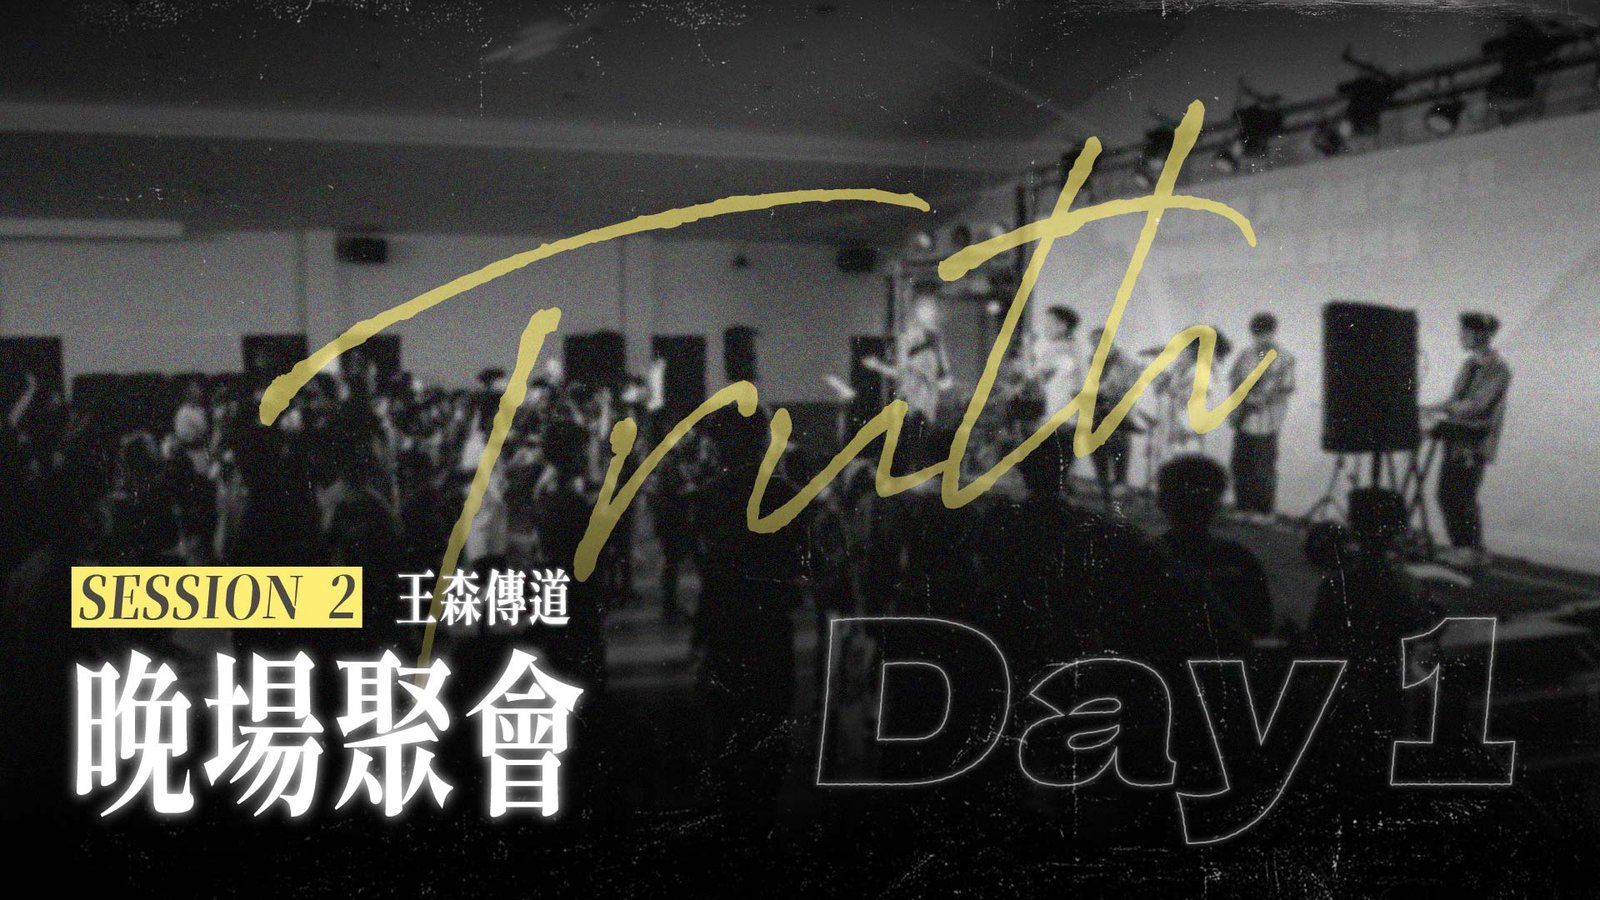
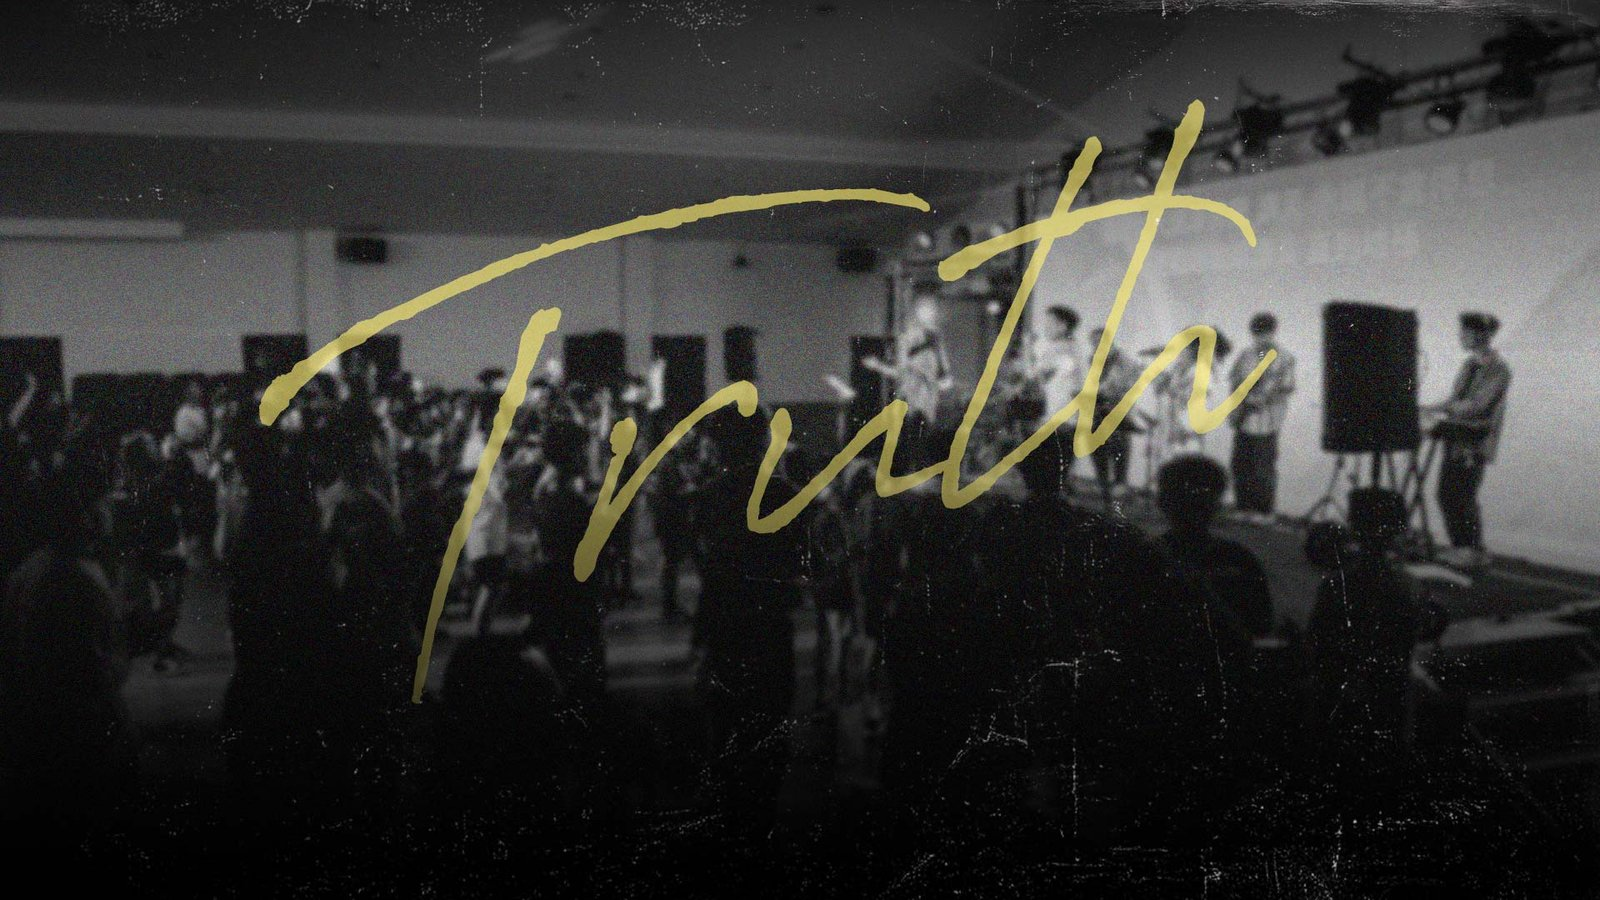
feat(camp): 七場聚會圖片拆成無字／有字兩版
campSessions 拆出 infoImage 欄位：卡片、倒數計時縮圖改用無字版（image），
只有倒數卡片點下去的「營會資訊」彈窗頭圖維持用有字版（infoImage），
跟 CONF 工作坊 image／infoImage 分工同一個做法。

diff --git a/lib/opening-camp-content.ts b/lib/opening-camp-content.ts
@@ -153,9 +153,12 @@ export type CampSession = {
   id: string
   label: string
   startISO: string
-  // 16:9 視覺圖（聚會卡片、倒數計時縮圖、大圖預覽共用），跟 ConferenceSession.image
+  // 16:9 無字視覺圖：首頁聚會內容卡片、倒數計時縮圖共用，跟 ConferenceSession.image
   // 同一個用法。
   image: string
+  // 16:9 有字（場次名稱）視覺圖，只用在倒數卡片點下去的「營會資訊」彈窗頭圖，
+  // 跟 conference-mission-home.tsx 工作坊的 image／infoImage 分工同一個做法。
+  infoImage: string
 }
 
 export const campSessions: CampSession[] = [
@@ -164,42 +167,49 @@ export const campSessions: CampSession[] = [
     label: "開場聚會",
     startISO: "2026-08-25T14:00:00+08:00",
     image: "/images/camp-session-day1-opening.jpg",
+    infoImage: "/images/camp-session-day1-opening-info.jpg",
   },
   {
     id: "day1-evening",
     label: "晚場聚會",
     startISO: "2026-08-25T19:00:00+08:00",
     image: "/images/camp-session-day1-evening.jpg",
+    infoImage: "/images/camp-session-day1-evening-info.jpg",
   },
   {
     id: "day2-game",
     label: "大地競賽",
     startISO: "2026-08-26T09:20:00+08:00",
     image: "/images/camp-session-day2-game.jpg",
+    infoImage: "/images/camp-session-day2-game-info.jpg",
   },
   {
     id: "day2-debate",
     label: "勇者辯論場",
     startISO: "2026-08-26T14:00:00+08:00",
     image: "/images/camp-session-day2-debate.jpg",
+    infoImage: "/images/camp-session-day2-debate-info.jpg",
   },
   {
     id: "day2-evening",
     label: "晚場聚會",
     startISO: "2026-08-26T19:00:00+08:00",
     image: "/images/camp-session-day2-evening.jpg",
+    infoImage: "/images/camp-session-day2-evening-info.jpg",
   },
   {
     id: "day3-podcast",
     label: "Live Podcast",
     startISO: "2026-08-27T09:20:00+08:00",
     image: "/images/camp-session-day3-podcast.jpg",
+    infoImage: "/images/camp-session-day3-podcast-info.jpg",
   },
   {
     id: "day3-closing",
     label: "閉幕聚會",
     startISO: "2026-08-27T13:30:00+08:00",
     image: "/images/camp-session-day3-closing.jpg",
+    infoImage: "/images/camp-session-day3-closing-info.jpg",
   },
 ]
 

diff --git a/components/camp-countdown-card.tsx b/components/camp-countdown-card.tsx
@@ -57,13 +57,14 @@ export function CampCountdownCard() {
             <span className="sr-only">關閉</span>
           </DialogClose>
 
-          {/* 視覺依場次換成 nextSession.image。overflow-hidden 放在這裡（不是
-              外層 DialogContent）只裁圖片本身的圓角，外層才能保留 overflow-y-auto
+          {/* 彈窗頭圖用有字版 nextSession.infoImage（跟卡片／倒數計時縮圖用的
+              無字版 image 是不同兩張圖）。overflow-hidden 放在這裡（不是外層
+              DialogContent）只裁圖片本身的圓角，外層才能保留 overflow-y-auto
               讓內容過長時可以捲動，不會在小螢幕手機上被切掉或壓扁變形
               （跟 conference-mission-home.tsx 同一個修法）。 */}
           <div className="relative aspect-video w-full shrink-0 overflow-hidden rounded-t-3xl">
             <Image
-              src={nextSession.image}
+              src={nextSession.infoImage}
               alt={`${nextSession.label}視覺`}
               fill
               sizes="(min-width: 640px) 448px, 100vw"
